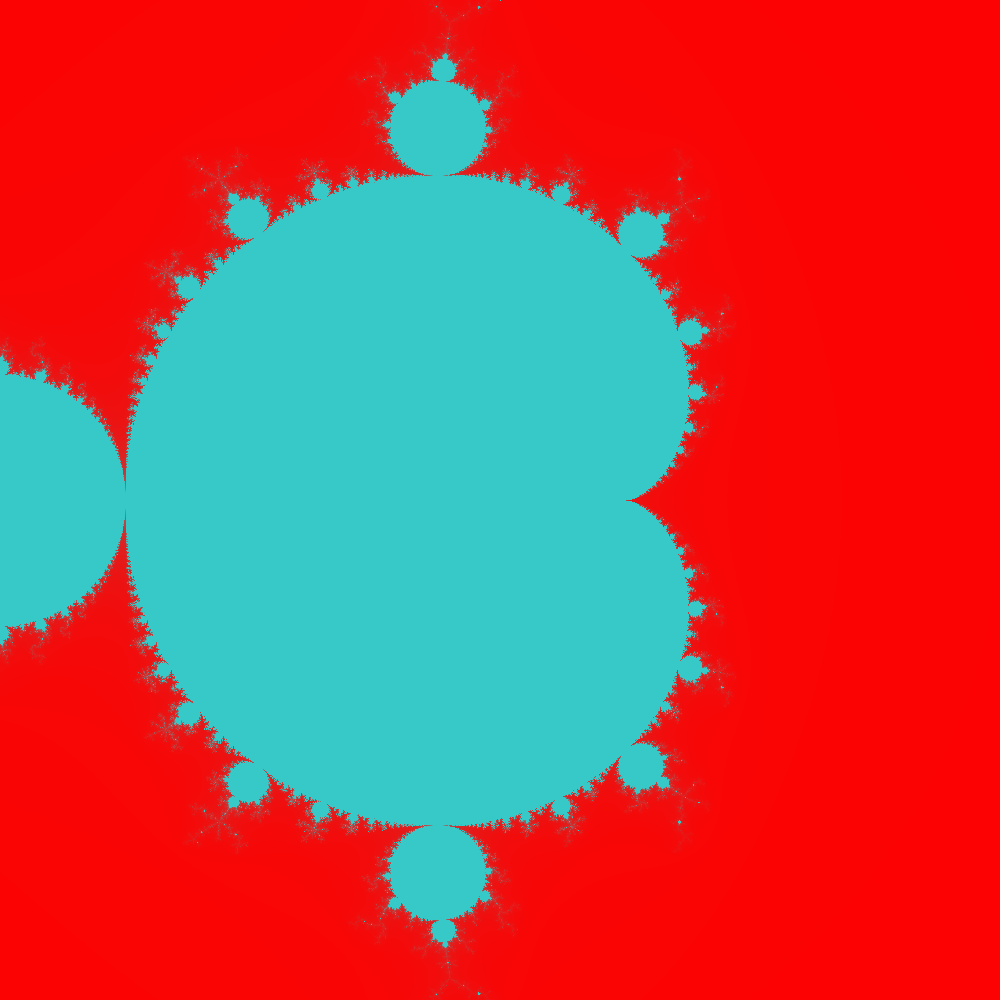
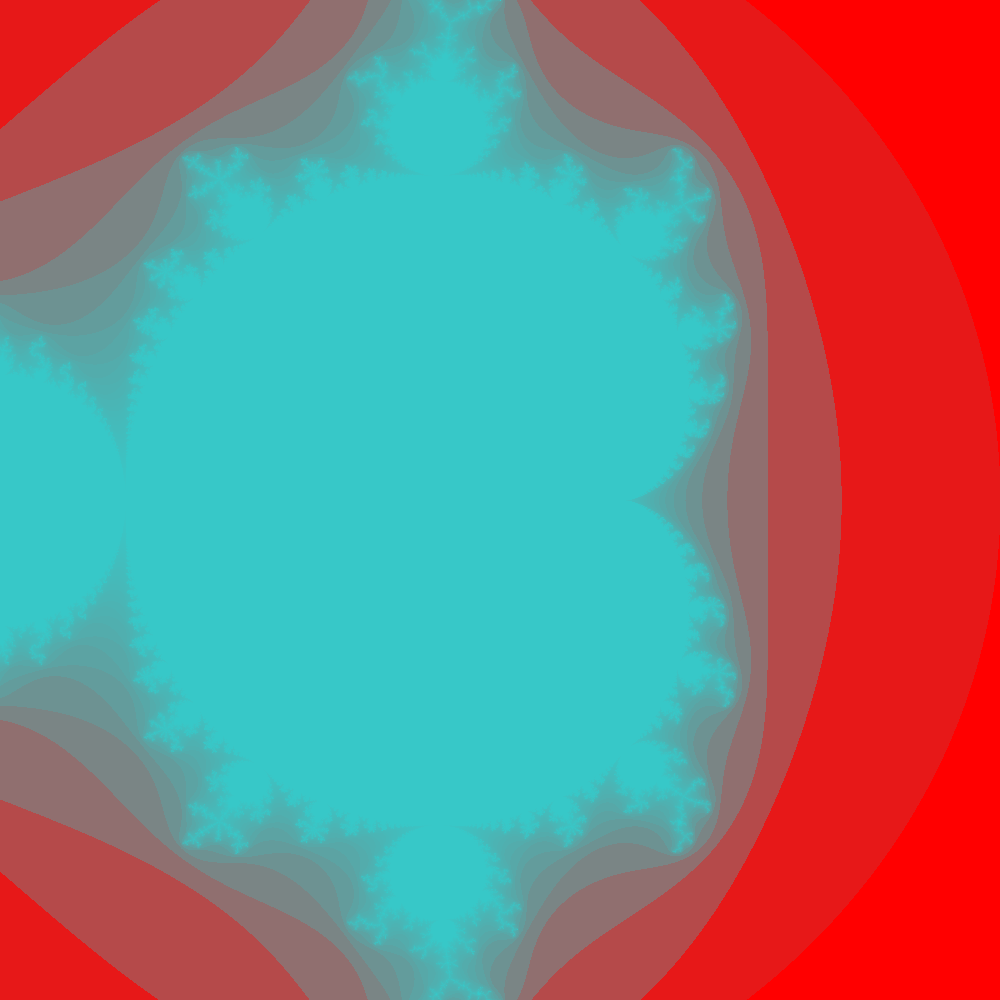
histogram coloring first steps

diff --git a/Program.cs b/Program.cs
@@ -1,59 +1,108 @@
-using System;
-using System.Numerics;
-using System.Drawing;
+using System.Drawing;
 using System.Drawing.Imaging;
+
+// Manually simulates a complex number data type using two seperate variables...
 
 public class MandelbrotSet
 {
     public static void Main()
     {
-        Bitmap bmp = new Bitmap(1000, 1000);
-
+        int sizeX = 1000;
+        int sizeY = 1000;
         int maxIterations = 200;
 
-        List<Color> colorArray = GetGradients(Color.FromArgb(255, 255, 0, 0), Color.FromArgb(255, 0, 255, 255), maxIterations + 1);
+        int[,] iterationCounts = new int[sizeX, sizeY];
+        int[] numIterationsPerPixel = new int[maxIterations + 1];
+        double[,] hue = new double[sizeX, sizeY];
 
-        for(int pixX = 0; pixX < bmp.Width; pixX++)
+        List<Color> colorArray = GetGradients(Color.FromArgb(255, 255, 0, 0), Color.FromArgb(255, 0, 255, 255), maxIterations + 1);
+        Bitmap bmp = new Bitmap(sizeX, sizeY);
+
+        // loop through every pixel
+
+        for(int pixX = 0; pixX < sizeX; pixX++)
         {
-            for(int pixY = 0; pixY < bmp.Height; pixY++)
+            for(int pixY = 0; pixY < sizeY; pixY++)
             {
-                double x0 = (pixX - (0.5 * bmp.Width)) * 2;
-                double y0 = (pixY - (0.5 * bmp.Height)) * 2;
-                x0 /= bmp.Width;
-                y0 /= bmp.Height;
+                double x0 = (pixX - (0.5 * sizeX)) * 2;
+                double y0 = (pixY - (0.5 * sizeY)) * 2;
+                x0 /= sizeX;
+                y0 /= sizeY;
                 double x = 0;
                 double y = 0;
                 int i = 0;
                 double x2 = 0;
                 double y2 = 0;
 
+                // run until escape, save iteration count in array
+
                 while((x2 + y2) <= 4 && i < maxIterations)
                 {
                     y = 2 * x * y + y0;
-                    x = x2 - y2 + x0;
+                    x = x2 - y2 + x0;        // x goes after y to prevent wack iterations
                     x2 = x * x;
                     y2 = y * y;
                     i++;
                 }
 
-                //Console.WriteLine("Real: " + x.ToString() + ", Imaginary: " + y.ToString());
+                iterationCounts[pixX,pixY] = i;
 
-                bmp.SetPixel(pixX, pixY, colorArray[i]);
+                //Console.WriteLine("Real: " + x.ToString() + ", Imaginary: " + y.ToString());
+                //bmp.SetPixel(pixX, pixY, colorArray[i]);
             }
         }
 
+        // Start histogram coloring
+
+        for(int x = 0; x < sizeX; x++)
+        {
+            for(int y = 0; y < sizeY; y++)
+            {
+                int i = iterationCounts[x, y];
+                numIterationsPerPixel[i]++;
+            }
+        }
+
+        double total = 0;
+        for(int i = 0; i < maxIterations; i++)
+        {
+            total += numIterationsPerPixel[i];
+        }
+
+        for(int x = 0; x < sizeX; x++)
+        {
+            for(int y = 0; y < sizeY; y++)
+            {
+                int iteration = iterationCounts[x, y];
+                for(int i = 0; i < iteration; i++)
+                {
+                    hue[x, y] += numIterationsPerPixel[i] / total;
+                }
+            }
+        }
+
+        // finish histogram, start coloring bitmap
         
+        for(int x = 0; x < sizeX; x++)
+        {
+            for(int y = 0; y < sizeY; y++)
+            {
+                bmp.SetPixel(x, y, colorArray[(int)Math.Round(hue[x, y] * maxIterations)]);
+            }
+        } 
 
         bmp.Save("out.png", ImageFormat.Png);
+
+        // done!
     }
 
     public static List<Color> GetGradients(Color start, Color end, int steps)
     {
         List<Color> gradients = new List<Color>();
-        int stepA = ((end.A - start.A) / (steps - 1));
-        int stepR = ((end.R - start.R) / (steps - 1));
-        int stepG = ((end.G - start.G) / (steps - 1));
-        int stepB = ((end.B - start.B) / (steps - 1));
+        int stepA = (end.A - start.A) / (steps - 1);
+        int stepR = (end.R - start.R) / (steps - 1);
+        int stepG = (end.G - start.G) / (steps - 1);
+        int stepB = (end.B - start.B) / (steps - 1);
 
         for (int i = 0; i < steps; i++)
         {
